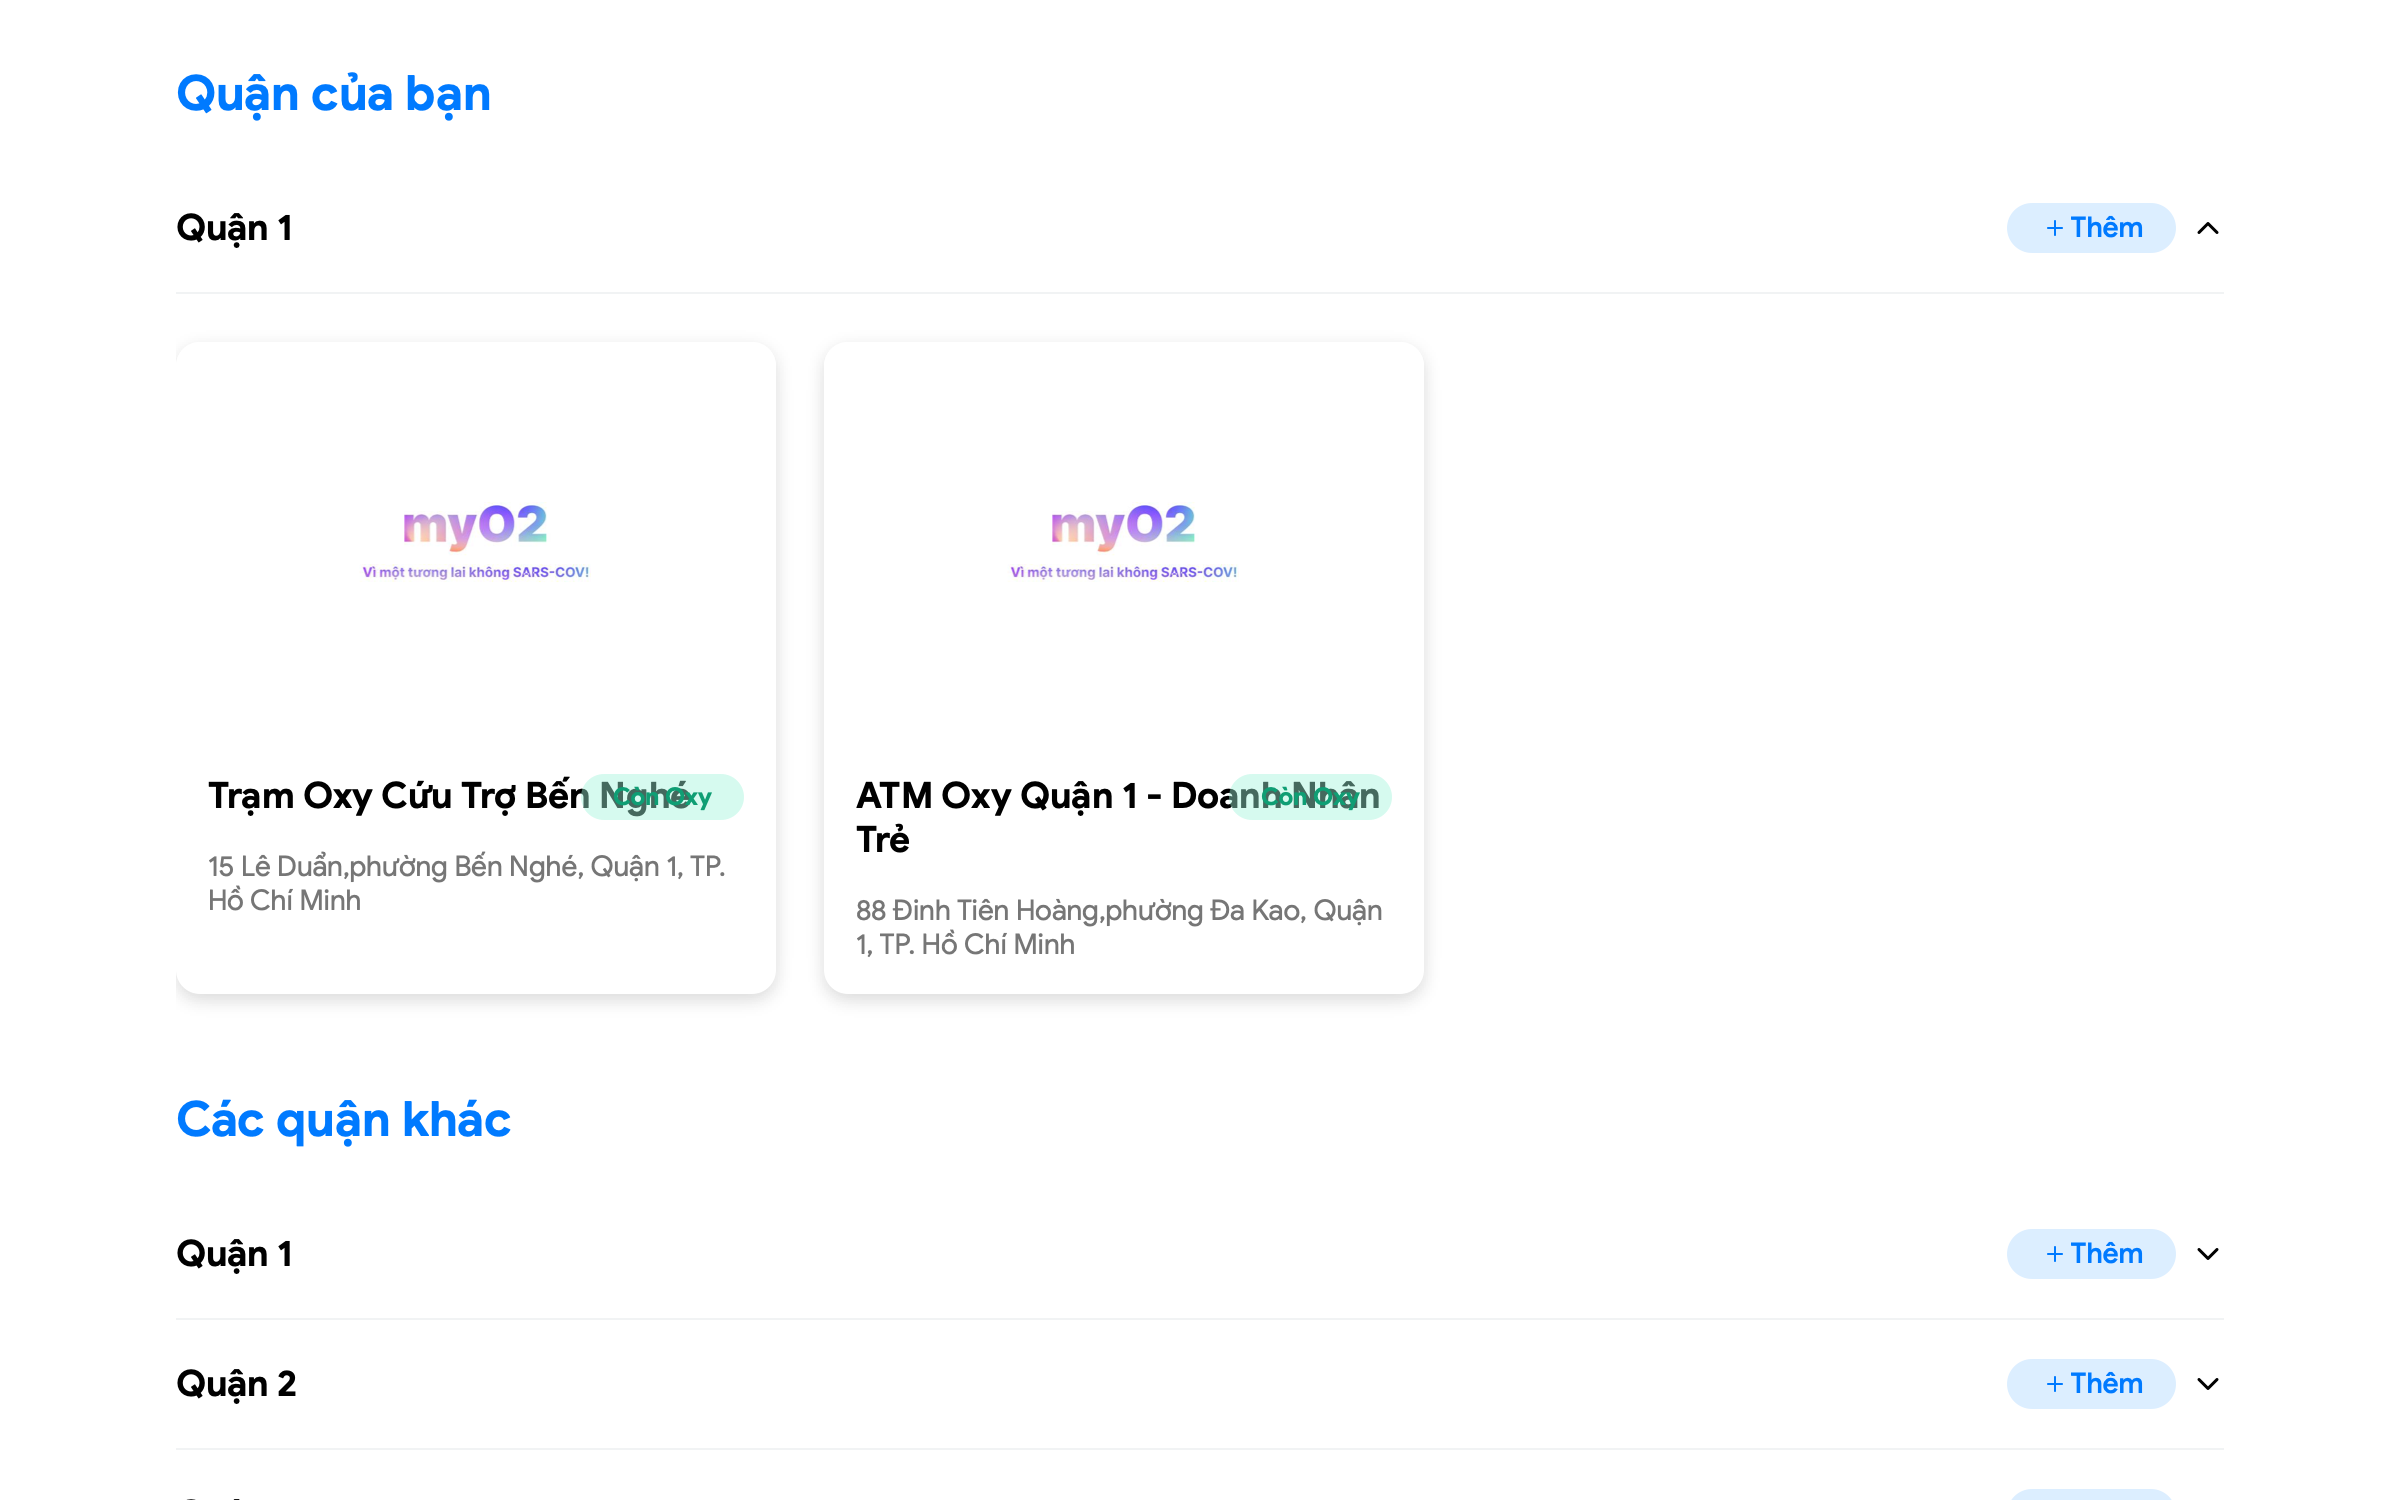
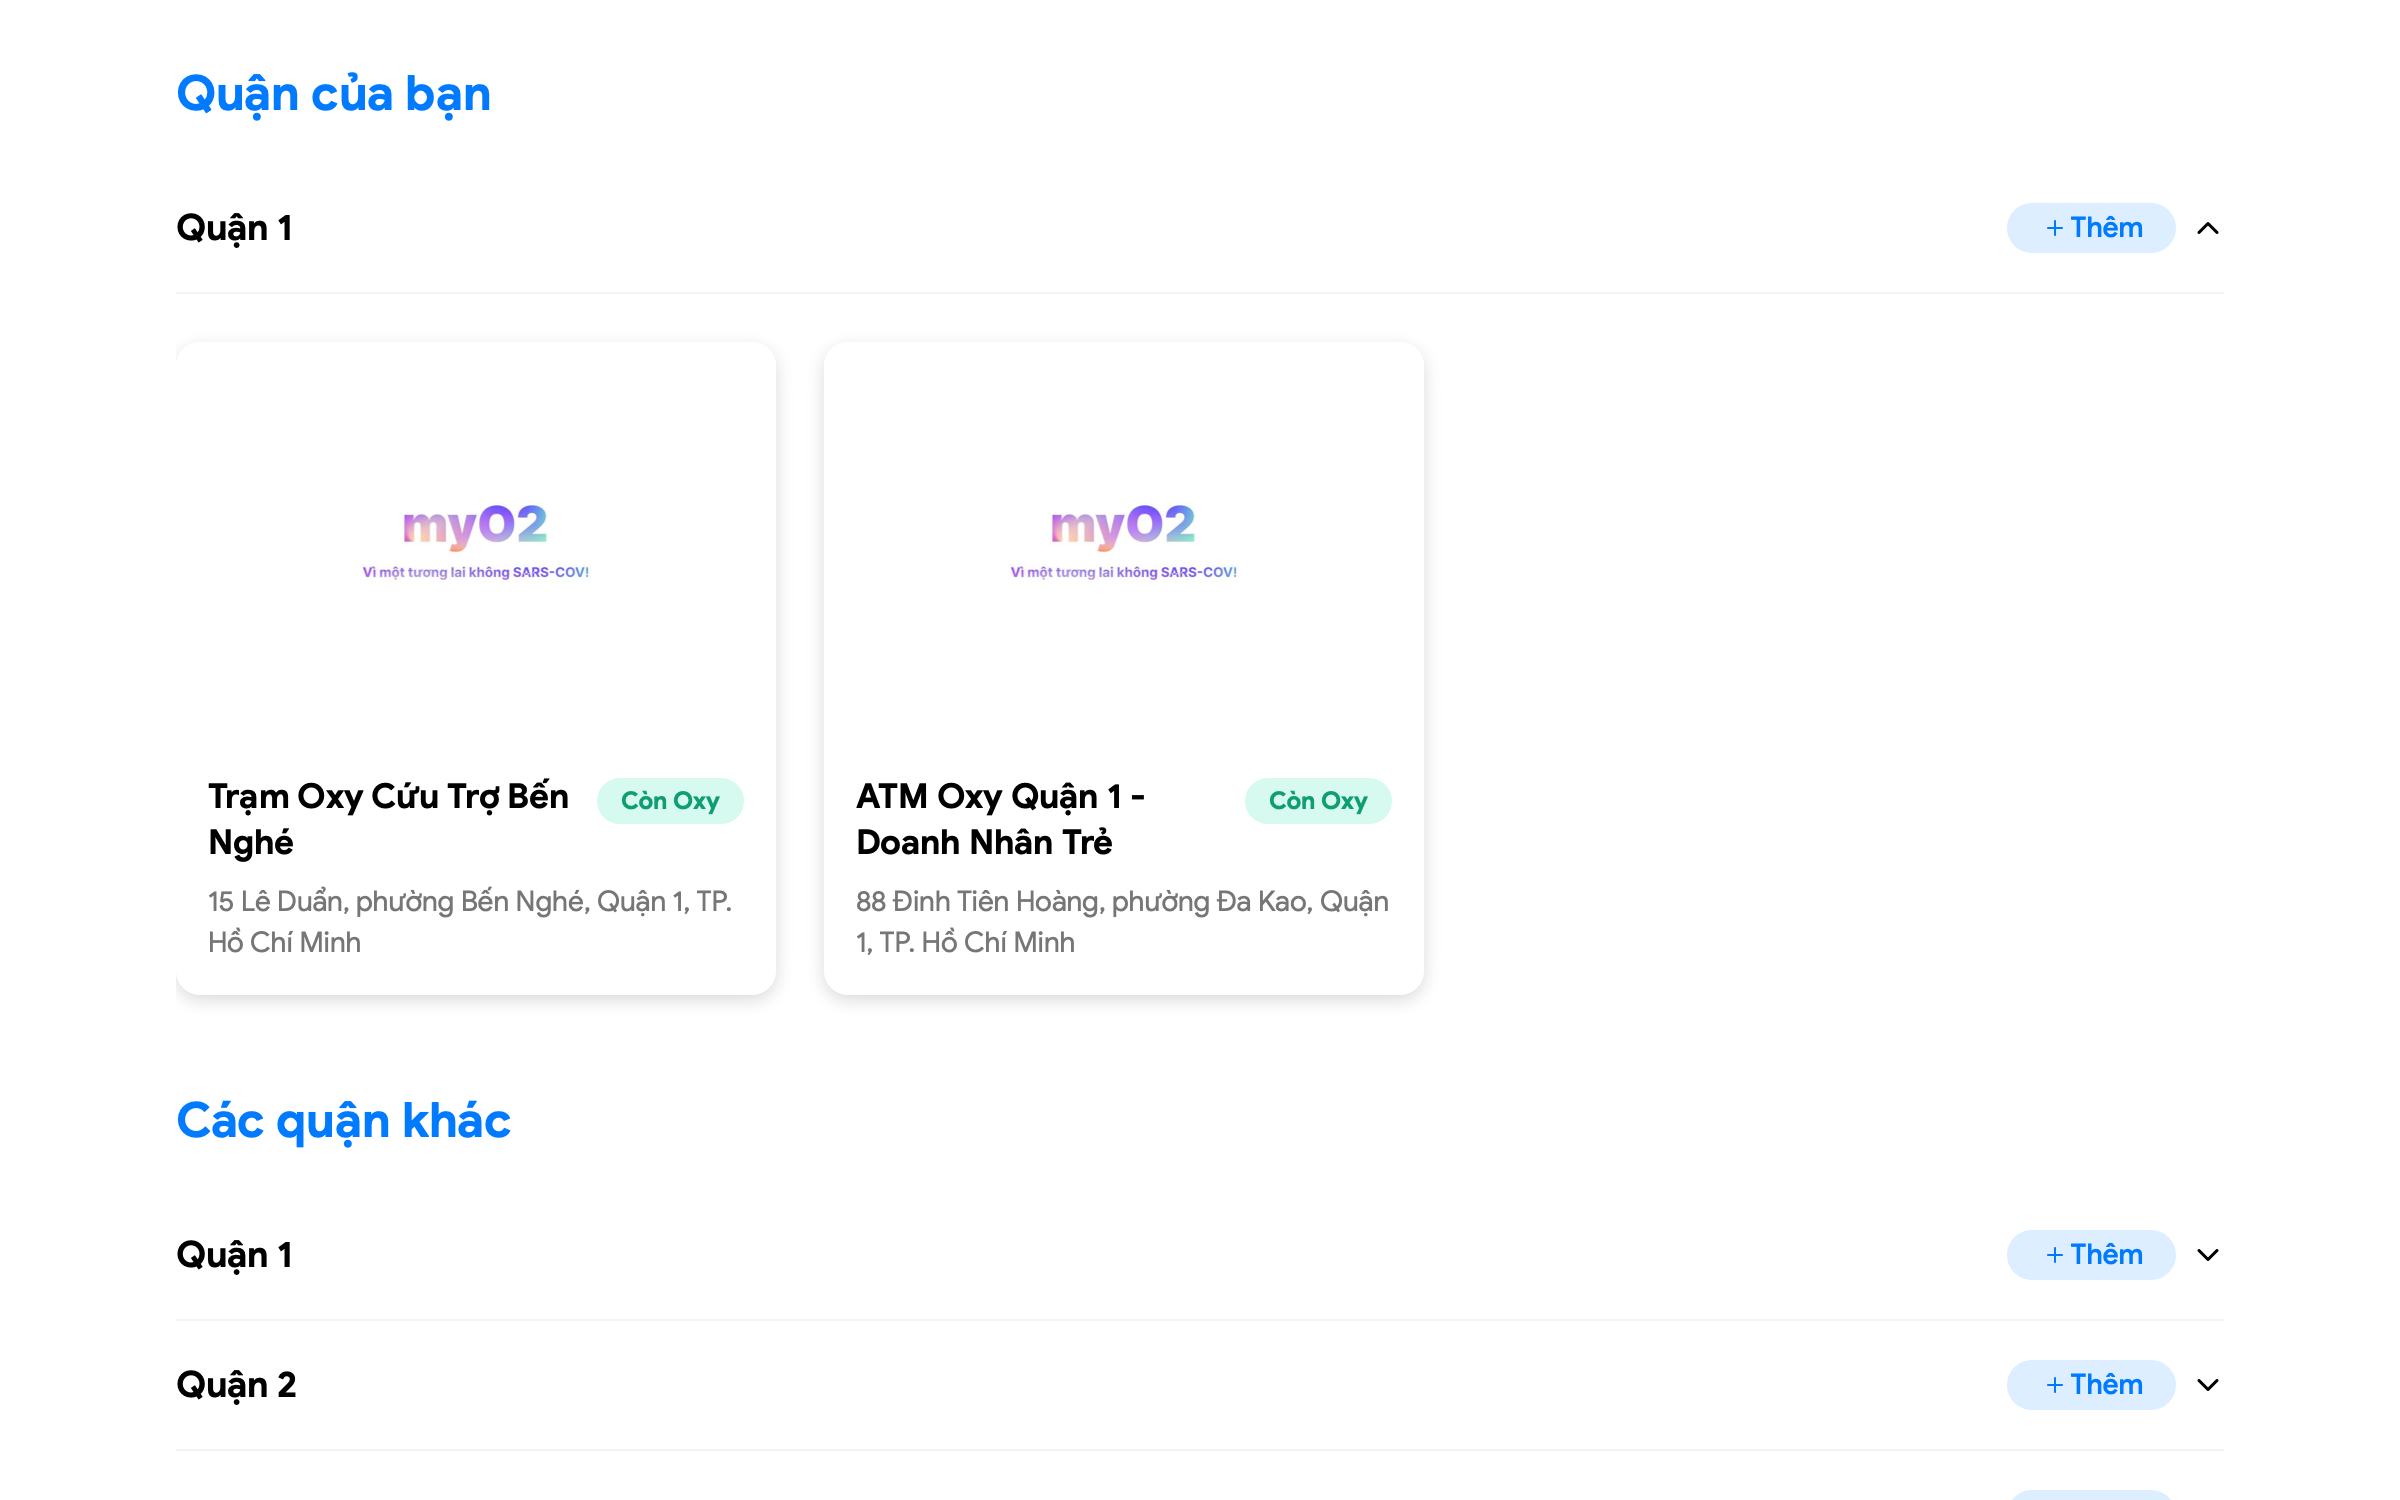
fix(ui): Prevent status badge overlap on card title

diff --git a/src/components/Card/styles.scss b/src/components/Card/styles.scss
@@ -42,50 +42,37 @@
         border-top-right-radius: 12px;
     }
 
-    & h5 {
-        font-size: 18px;
-        margin: 0;
-    }
-    
-    & .title {
-        display: flex;
-        align-items: center;
-        margin-top: 16px;
-        margin-left: 16px;
-        margin-right: 16px;
-    }
-
-    & p {
-        font-size: 14px;
-        color: $dark-2;
-        margin: 0;
-        margin-top: 16px;
-        margin-left: 16px;
-        margin-right: 16px;
-    }
-
     & .information-container {
         display: flex;
+        flex-direction: column;
+        padding: 16px 16px 0 16px;
 
-        & .information {
-            flex: 1;
-        }
-
-        & .status-container {
+        & .header-info {
             display: flex;
-            justify-content: center;
-            position: relative;
-            margin-top: 16px;
+            align-items: flex-start;
+            justify-content: space-between;
+            gap: 12px;
+
+            & .title {
+                flex: 1;
+                min-width: 0;
+
+                & h5 {
+                    font-size: 17px;
+                    font-weight: 700;
+                    line-height: 1.35;
+                    margin: 0;
+                }
+            }
 
             & .status {
-                padding: 4px 16px;
-                border-radius: 25px;
+                flex-shrink: 0;
+                padding: 4px 12px;
+                border-radius: 20px;
                 font-size: 12px;
                 font-weight: 600;
-                position: absolute;
-                right: 16px;
-                top: 0;
                 white-space: nowrap;
+                margin-top: 2px;
         
                 &.green {
                     background-color: #9ff3d96e;
@@ -97,6 +84,13 @@
                     color: #e82a2a;
                 }
             }
+        }
+
+        & p {
+            font-size: 14px;
+            line-height: 1.45;
+            color: $dark-2;
+            margin: 8px 0 0 0;
         }
     }
 }  

diff --git a/src/components/Card/index.jsx b/src/components/Card/index.jsx
@@ -18,17 +18,15 @@ export const Card = (props) => {
             </div> : null}
             <div className="image" style={{background: `url(${data.image}) no-repeat center center / cover`}}></div>
             <div className="information-container">
-                <div className="information">
-                        <div className="title">
+                <div className="header-info">
+                    <div className="title">
                         <h5>{data.name}</h5>
                     </div>
-                    <p>{data.address},phường {data.ward}, {districts[data.district].title}, {cities[data.city].title}</p>
-                </div>
-                <div className="status-container">
                     <div className={`status ${data.status ? 'green' : 'red'}`}>
                         <span>{data.status ? 'Còn' : 'Đã hết'} Oxy</span>
                     </div>
                 </div>
+                <p>{data.address}, phường {data.ward}, {districts[data.district].title}, {cities[data.city].title}</p>
             </div>
         </Link>
     )
